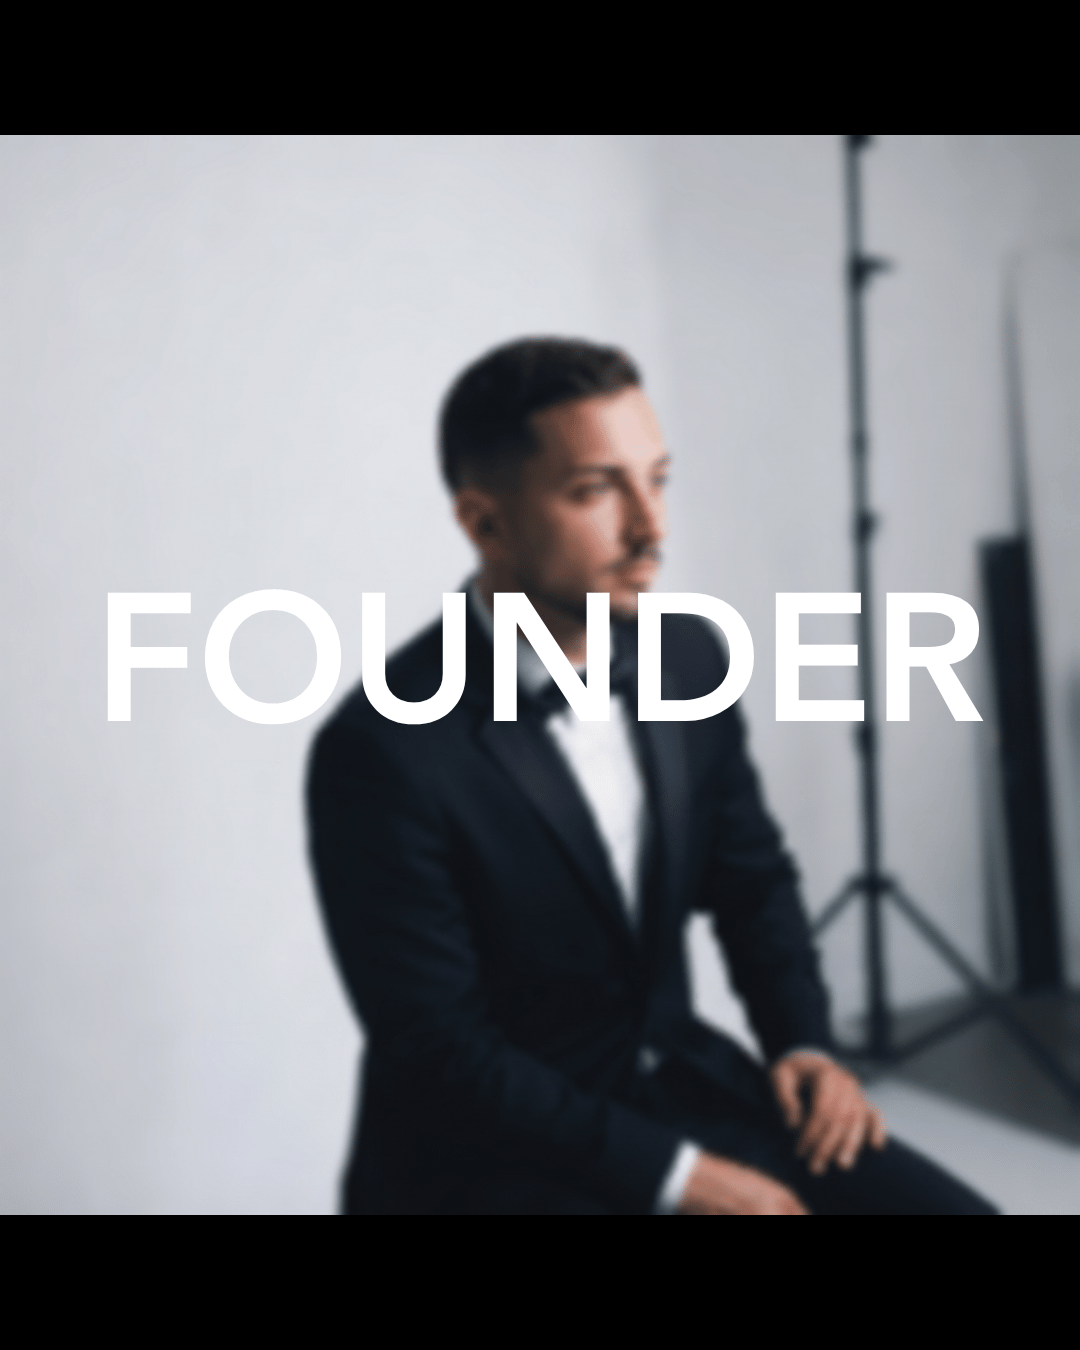
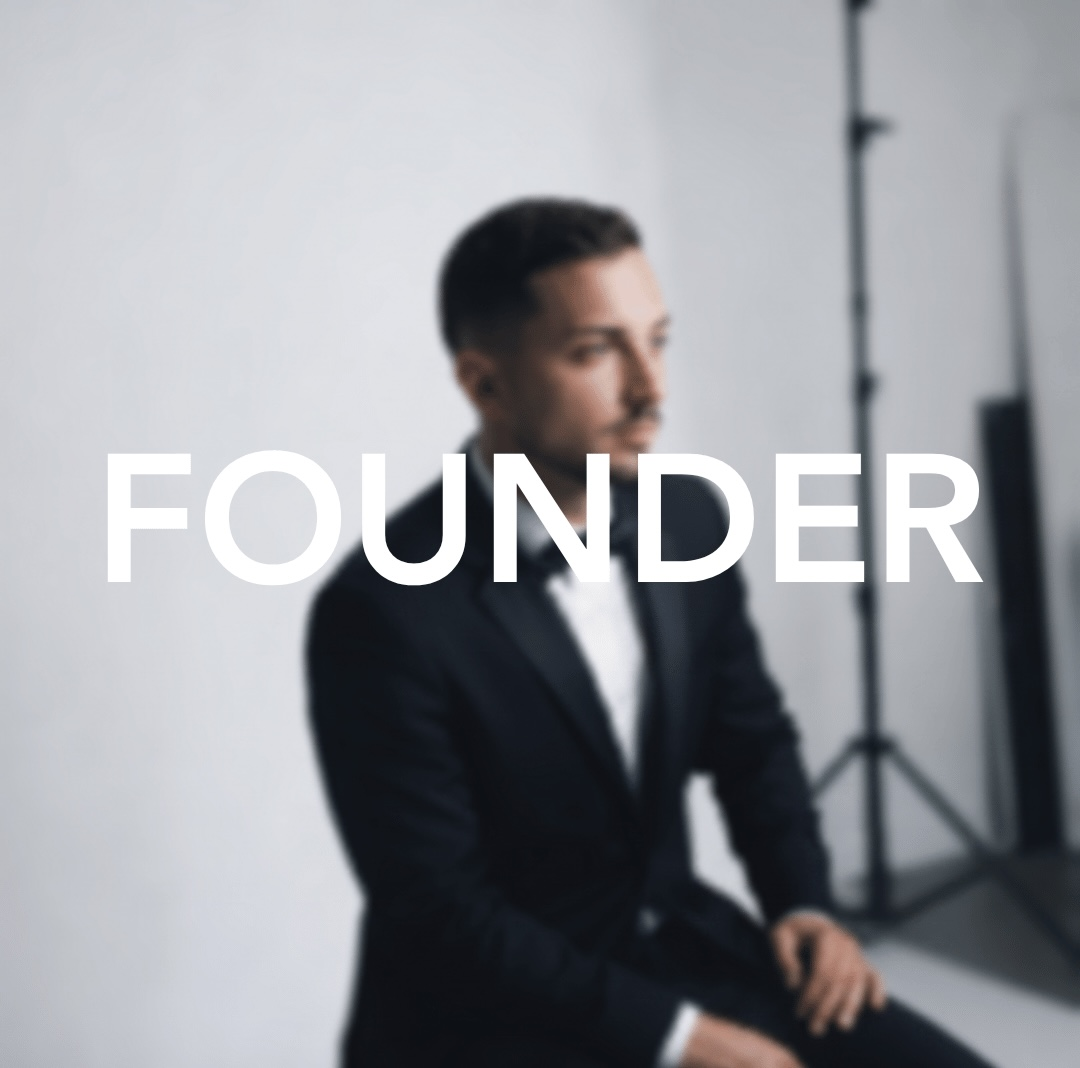
feat: adjust image dimensions and layout for founder photo

diff --git a/app/about/page.tsx b/app/about/page.tsx
@@ -60,13 +60,13 @@ export default function AboutPage() {
                   src={FOUNDER_PHOTO}
                   alt="Stefano, founder of IAS"
                   width={1080}
-                  height={1350}
+                  height={1080}
                   priority
                   sizes="(max-width: 768px) 90vw, 440px"
                   className="block h-auto w-full"
                 />
               ) : (
-                <div className="flex aspect-[4/5] w-full items-center justify-center bg-ias-brown-dark/[0.04]">
+                <div className="flex aspect-square w-full items-center justify-center bg-ias-brown-dark/[0.04]">
                   <span className="text-[13px] font-medium tracking-[0.08em] text-ias-brown-muted uppercase">
                     Founder photo
                   </span>
